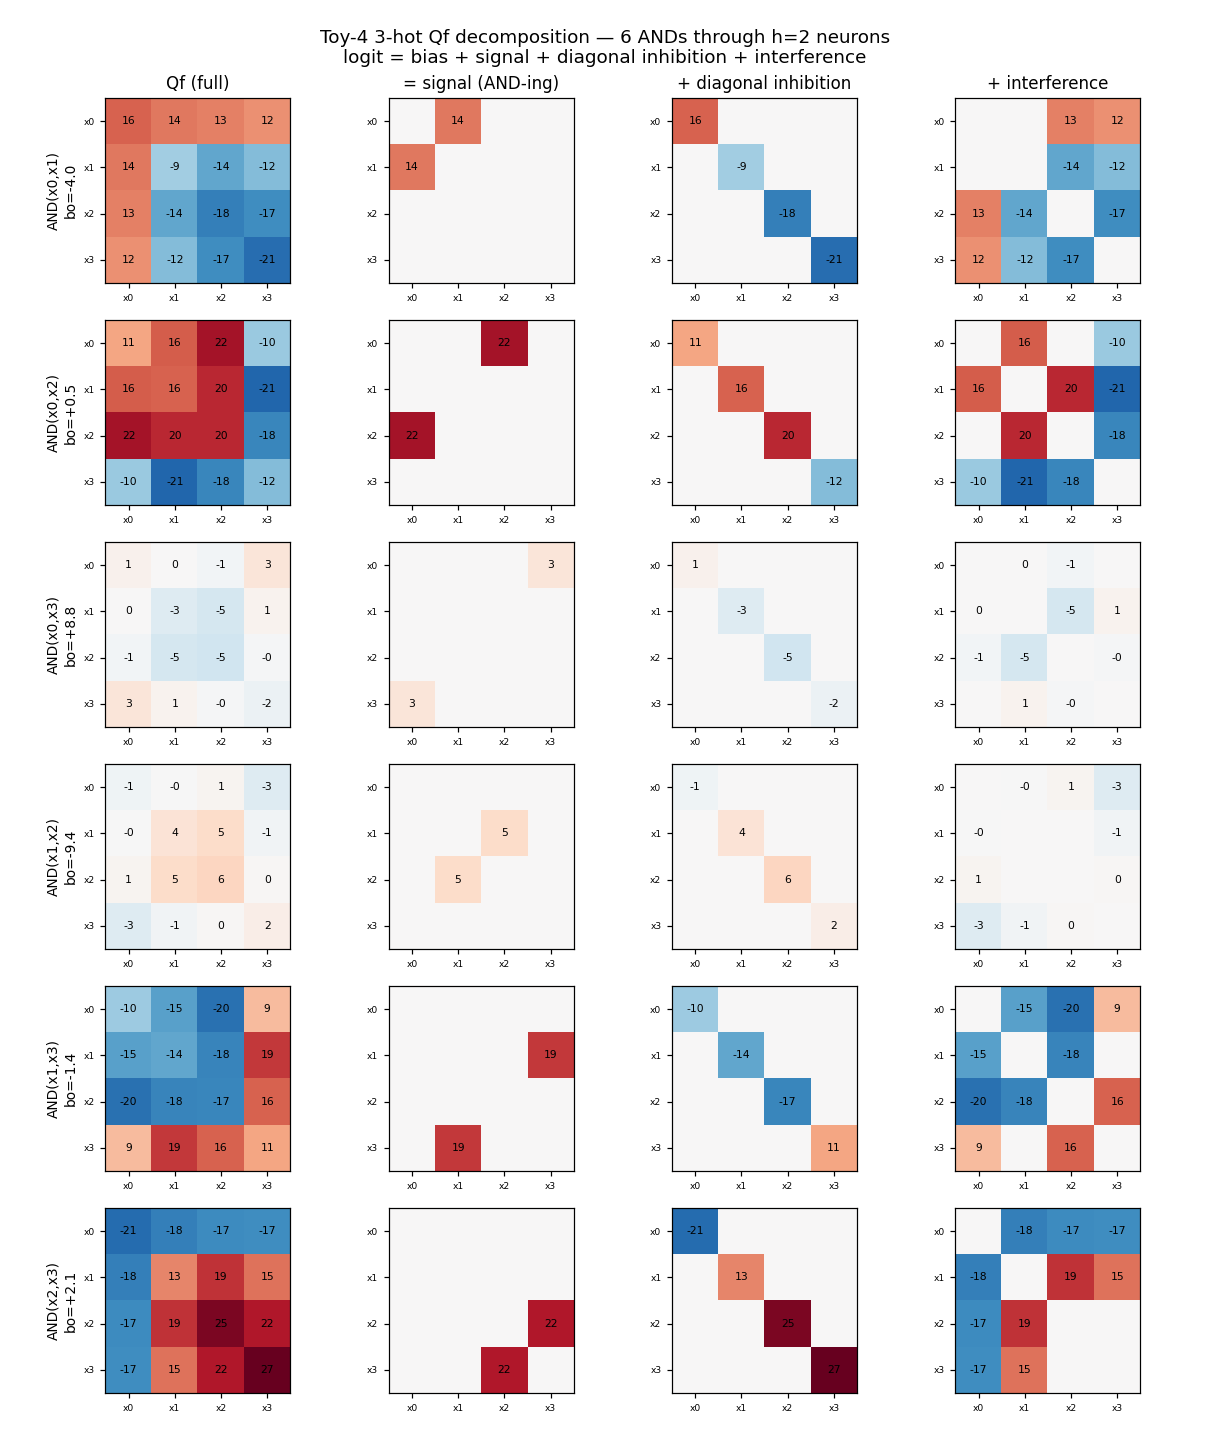
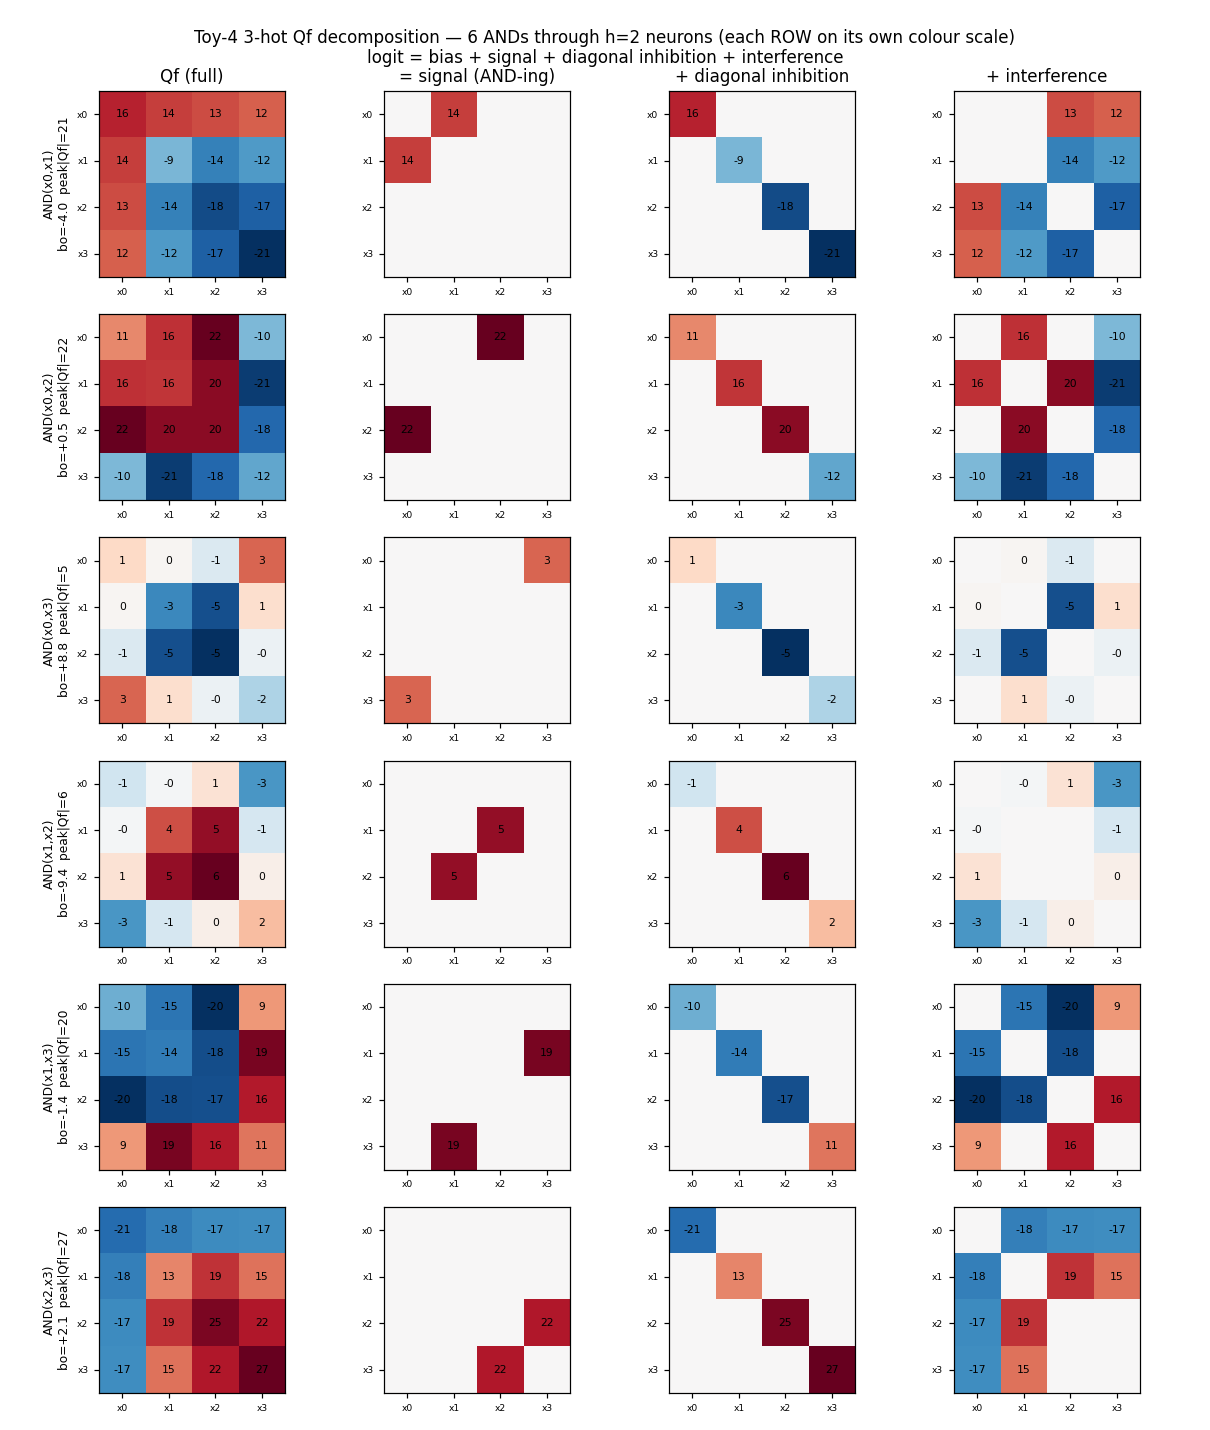
basic_circuits/toy_and: per-row colour scale + detection check
- Scale each decomposition row (output) on its own colour range (peak|Qf| shown
  per row) so small-magnitude outputs stay legible next to large ones; applied to
  toy_and.py and toy_and4.py.
- Add an explicit detection check to toy_and4.py (each output fires on exactly its
  pattern) -- confirms the model is correct despite a tiny "signal" cell.
- Document the 2-hot finding: AND(x0,x3) has Qf[0,3]=2 but Qf[0,2]=116, yet is
  correct -- in the one-hot regime the AND is computed by the whole quadratic form
  (diagonal + interference), not the signal cross-term. Distributed superposition.

diff --git a/basic_circuits/toy_and/toy_and4.py b/basic_circuits/toy_and/toy_and4.py
@@ -59,14 +59,21 @@ def run(KHOT):
     Zc = np.einsum('tij,ni,nj->nt', Qf, Xall, Xall) + bo
     print("  Qf reproduces forward? err", f"{np.abs(Zc-((Xall@W1.T*(Xall@W2.T))@Wo.T+bo)).max():.0e}",
           "| bo", {f"{pairs[t]}": round(float(bo[t]), 1) for t in range(T)})
+    lab = ["".join(str(i) for i in range(m) if Xall[n, i]) for n in range(len(Xall))]
+    print("  detection check (output -> active-sets where logit>0 / should fire):")
+    for t in range(T):
+        fires = [lab[n] for n in range(len(Xall)) if Zc[n, t] > 0]
+        should = [lab[n] for n in range(len(Xall)) if Yall[n, t] > 0]
+        print(f"    AND{pairs[t]}: fires {fires}  should {should}  {'ok' if fires == should else 'MISMATCH'}")
 
     # (1) Qf decomposition with bias
-    lim = np.abs(Qf).max(); fig, axes = plt.subplots(T, 4, figsize=(11, 13))
+    fig, axes = plt.subplots(T, 4, figsize=(11, 13))
     headers = ['Qf (full)', '= signal (AND-ing)', '+ diagonal inhibition', '+ interference']
     for t in range(T):
         a, b = pi[t]; Mt = Qf[t]
         Sg = np.zeros_like(Mt); Sg[a, b] = Mt[a, b]; Sg[b, a] = Mt[b, a]
         Dg = np.diag(np.diag(Mt)); I_ = Mt - Sg - Dg
+        lim = max(np.abs(Mt).max(), 1e-6)                       # per-row (per-output) colour scale
         for c, mat in enumerate([Mt, Sg, Dg, I_]):
             ax = axes[t, c]; ax.imshow(mat, cmap='RdBu_r', vmin=-lim, vmax=lim)
             for i in range(m):
@@ -75,9 +82,9 @@ def run(KHOT):
             ax.set_xticks(range(m)); ax.set_yticks(range(m))
             ax.set_xticklabels([f'x{i}' for i in range(m)], fontsize=6); ax.set_yticklabels([f'x{i}' for i in range(m)], fontsize=6)
             if t == 0: ax.set_title(headers[c], fontsize=11)
-        axes[t, 0].set_ylabel(f'AND(x{a},x{b})\nbo={bo[t]:+.1f}', fontsize=9)
-    fig.suptitle(f'Toy-4 {KHOT}-hot Qf decomposition — 6 ANDs through h={h_min} neurons\n'
-                 'logit = bias + signal + diagonal inhibition + interference', fontsize=12)
+        axes[t, 0].set_ylabel(f'AND(x{a},x{b})\nbo={bo[t]:+.1f}  peak|Qf|={lim:.0f}', fontsize=8)
+    fig.suptitle(f'Toy-4 {KHOT}-hot Qf decomposition — 6 ANDs through h={h_min} neurons (each ROW on its own colour scale)\n'
+                 'logit = bias + signal + diagonal inhibition + interference', fontsize=11)
     fig.tight_layout(); fig.savefig(os.path.join(RESULTS, f'fig_toy4_{tag}_decomp.png'), dpi=110)
 
     # logit components per (input, output)

diff --git a/basic_circuits/toy_and/toy_and.py b/basic_circuits/toy_and/toy_and.py
@@ -61,13 +61,13 @@ for n in range(len(Xall)):
           " | ".join(f"{lg[t]:+5.1f}{'*' if tg[t] else ' '}" for t in range(T)) + f"   {mark}")
 
 # ---------- (1) Qf decomposition: signal / diagonal inhibition / interference ----------
-lim = np.abs(Qf).max()
 fig, axes = plt.subplots(T, 4, figsize=(11, 8.5))
 cols = ['Qf (full)', '= signal (AND-ing)', '+ diagonal inhibition', '+ interference']
 for t in range(T):
     a, b = pi[t]; M = Qf[t]
     Sg = np.zeros_like(M); Sg[a, b] = M[a, b]; Sg[b, a] = M[b, a]
     Dg = np.diag(np.diag(M)); I_ = M - Sg - Dg
+    lim = max(np.abs(M).max(), 1e-6)                  # per-row (per-output) colour scale
     for c, mat in enumerate([M, Sg, Dg, I_]):
         ax = axes[t, c]; ax.imshow(mat, cmap='RdBu_r', vmin=-lim, vmax=lim)
         for i in range(m):
@@ -76,9 +76,9 @@ for t in range(T):
         ax.set_xticks(range(m)); ax.set_yticks(range(m)); ax.set_xticklabels([f'x{i}' for i in range(m)], fontsize=7)
         ax.set_yticklabels([f'x{i}' for i in range(m)], fontsize=7)
         if t == 0: ax.set_title(cols[c], fontsize=11)
-    axes[t, 0].set_ylabel(f'output AND(x{a},x{b})\nbias bo = {bo[t]:+.1f}', fontsize=10)
+    axes[t, 0].set_ylabel(f'output AND(x{a},x{b})\nbias bo={bo[t]:+.1f}  peak|Qf|={lim:.0f}', fontsize=9)
 fig.suptitle('Toy Qf decomposition — logit = bias + signal + diagonal inhibition + interference\n'
-             '(3 outputs through 2 bilinear neurons; W1,W2 are biasless, bo is the only bias)', fontsize=12)
+             '(2 bilinear neurons; W1,W2 biasless; each row on its own colour scale)', fontsize=12)
 fig.tight_layout(); fig.savefig(os.path.join(RESULTS, 'fig_toy_decomp.png'), dpi=110)
 
 # ---------- logit components for every (input, output) ----------

diff --git a/basic_circuits/toy_and/results/toy_and4.md b/basic_circuits/toy_and/results/toy_and4.md
@@ -47,3 +47,23 @@ driven far negative — so **inhibition does almost all the work**: ablation is 
 many negatives flood across 0). The contrast with 3-hot is the point: the same 2-neuron
 bilinear layer reallocates between signal / inhibition / interference depending on the
 task's combinatorics.
+
+**The "signal" cell is *not* where the AND lives here.** e.g. `AND(x0,x3)` has a tiny
+signal `Qf[0,3]=2` yet a huge `Qf[0,2]=116` — which looks wrong but is correct (every
+output fires on exactly its pattern; the detection-check in the script confirms it). In
+this one-hot regime the model detects `{0,3}` not via the `(0,3)` cross term but by
+tuning the whole form so the sum over the active pair is positive only for `{0,3}`:
+
+    input {0,3} (true) : bo + Qf00 + Qf33 + 2·Qf03 = −2.7 + 68 − 60 + 4  = +9.3  ✓
+    input {0,2} (false): bo + Qf00 + Qf22 + 2·Qf02 = −2.7 + 68 − 308 + 232 = −10.7 ✓
+
+So the computation is **distributed across the diagonal and interference**, not the
+signal cell — a tiny illustration of the project's central point (the computation isn't
+where a naive "signal" readout looks). The `signal/inhibition/interference` split is a
+lens borrowed from the big sparse UAND (where the signal cross-term dominates); it adds
+up exactly here too, but in this regime the labels don't carry the computation.
+
+> Figure note: in both decompositions each **row is on its own colour scale**
+> (`peak|Qf|` is shown per output), so small-magnitude outputs stay legible next to the
+> large ones — the colour shows structure *within* a row; the annotated numbers carry
+> the absolute magnitudes.